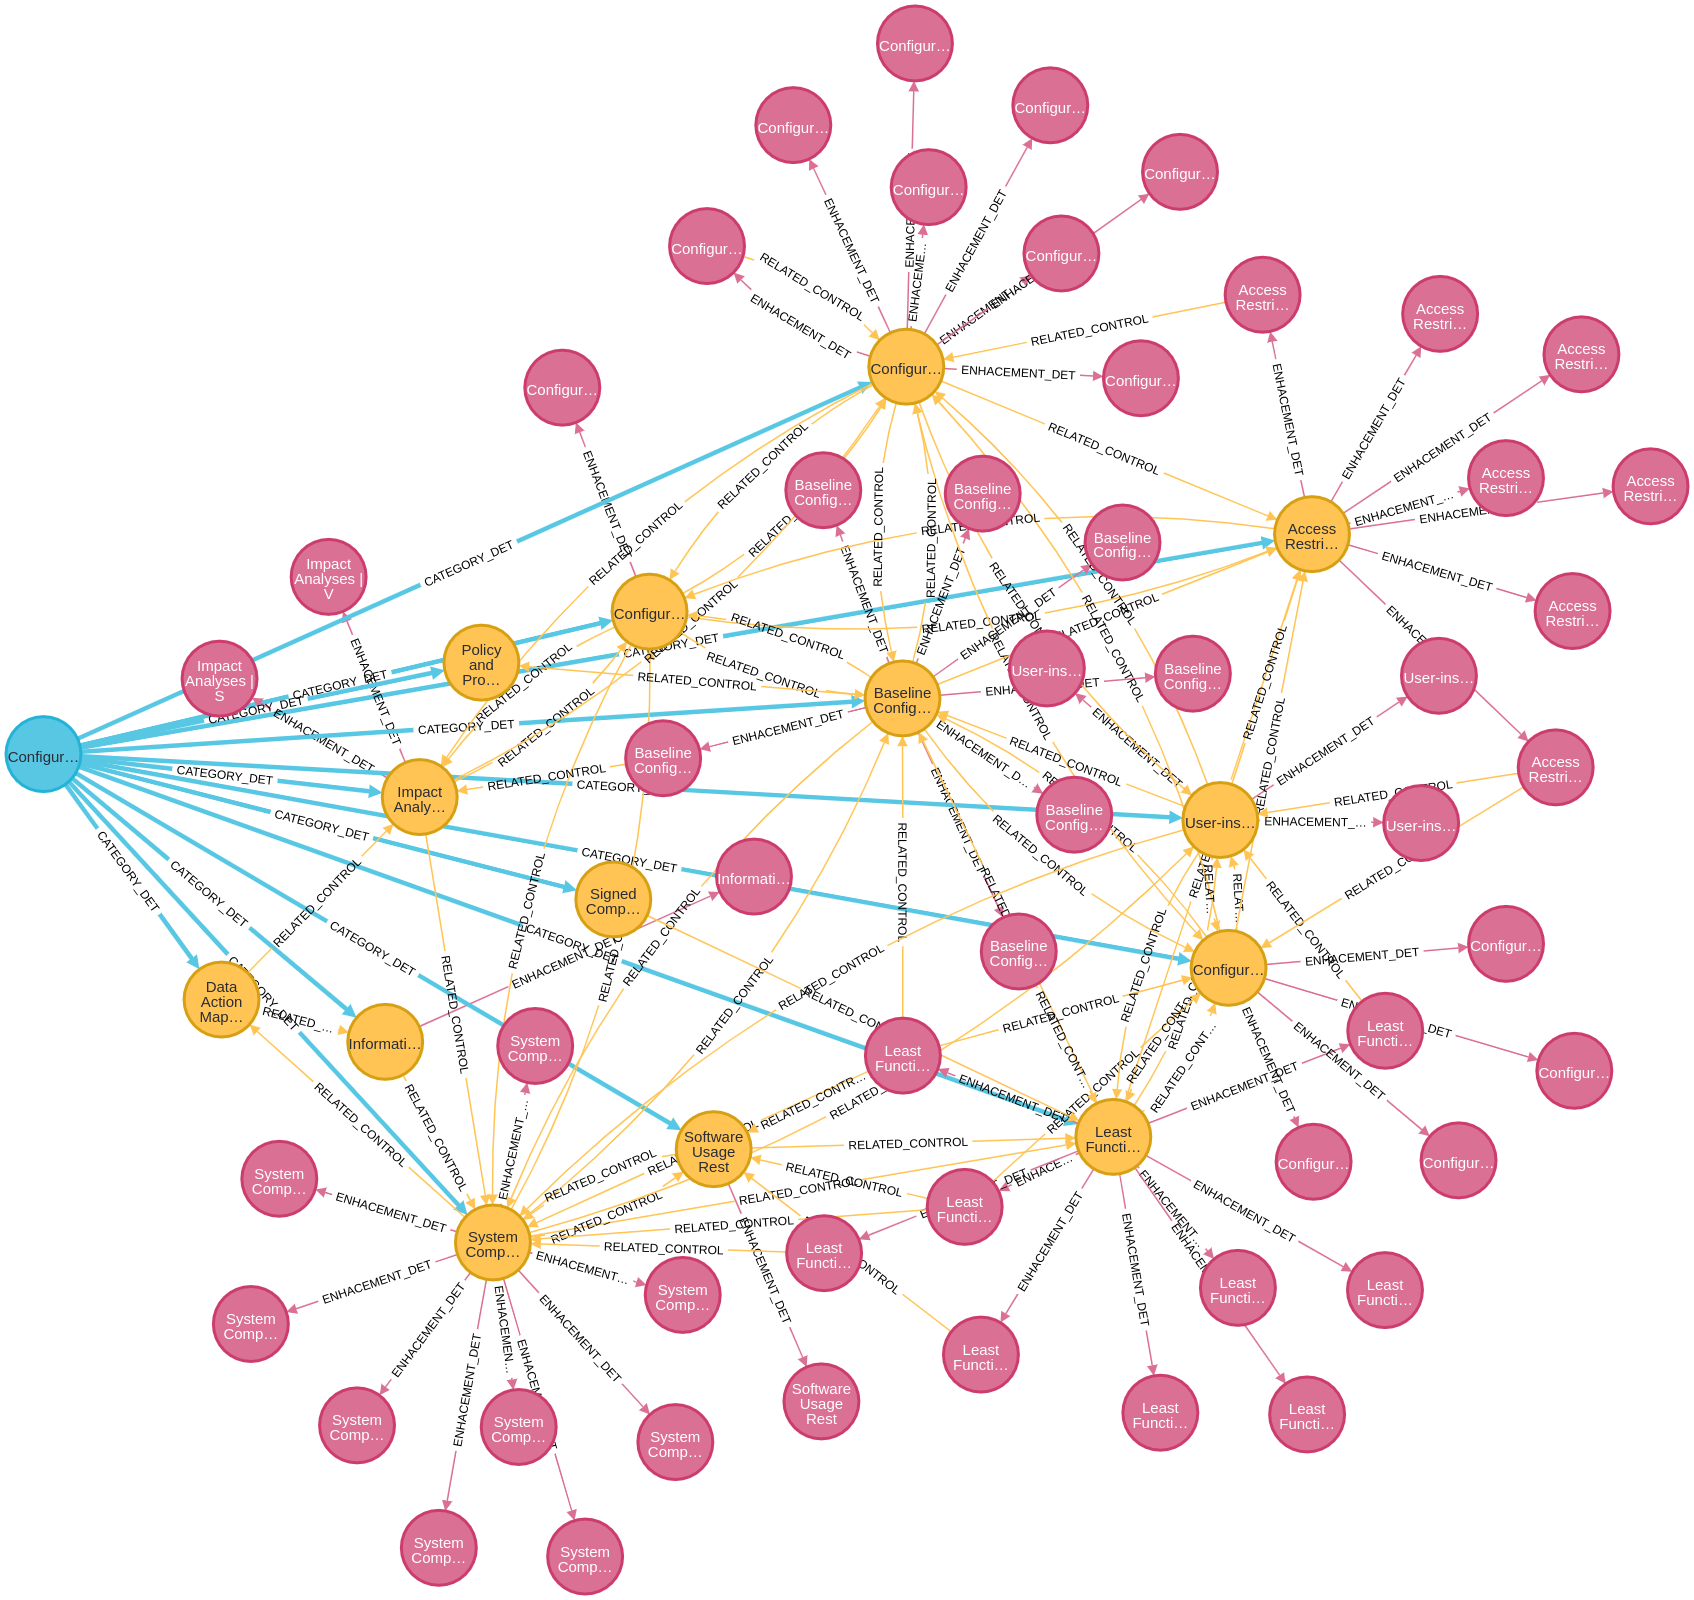
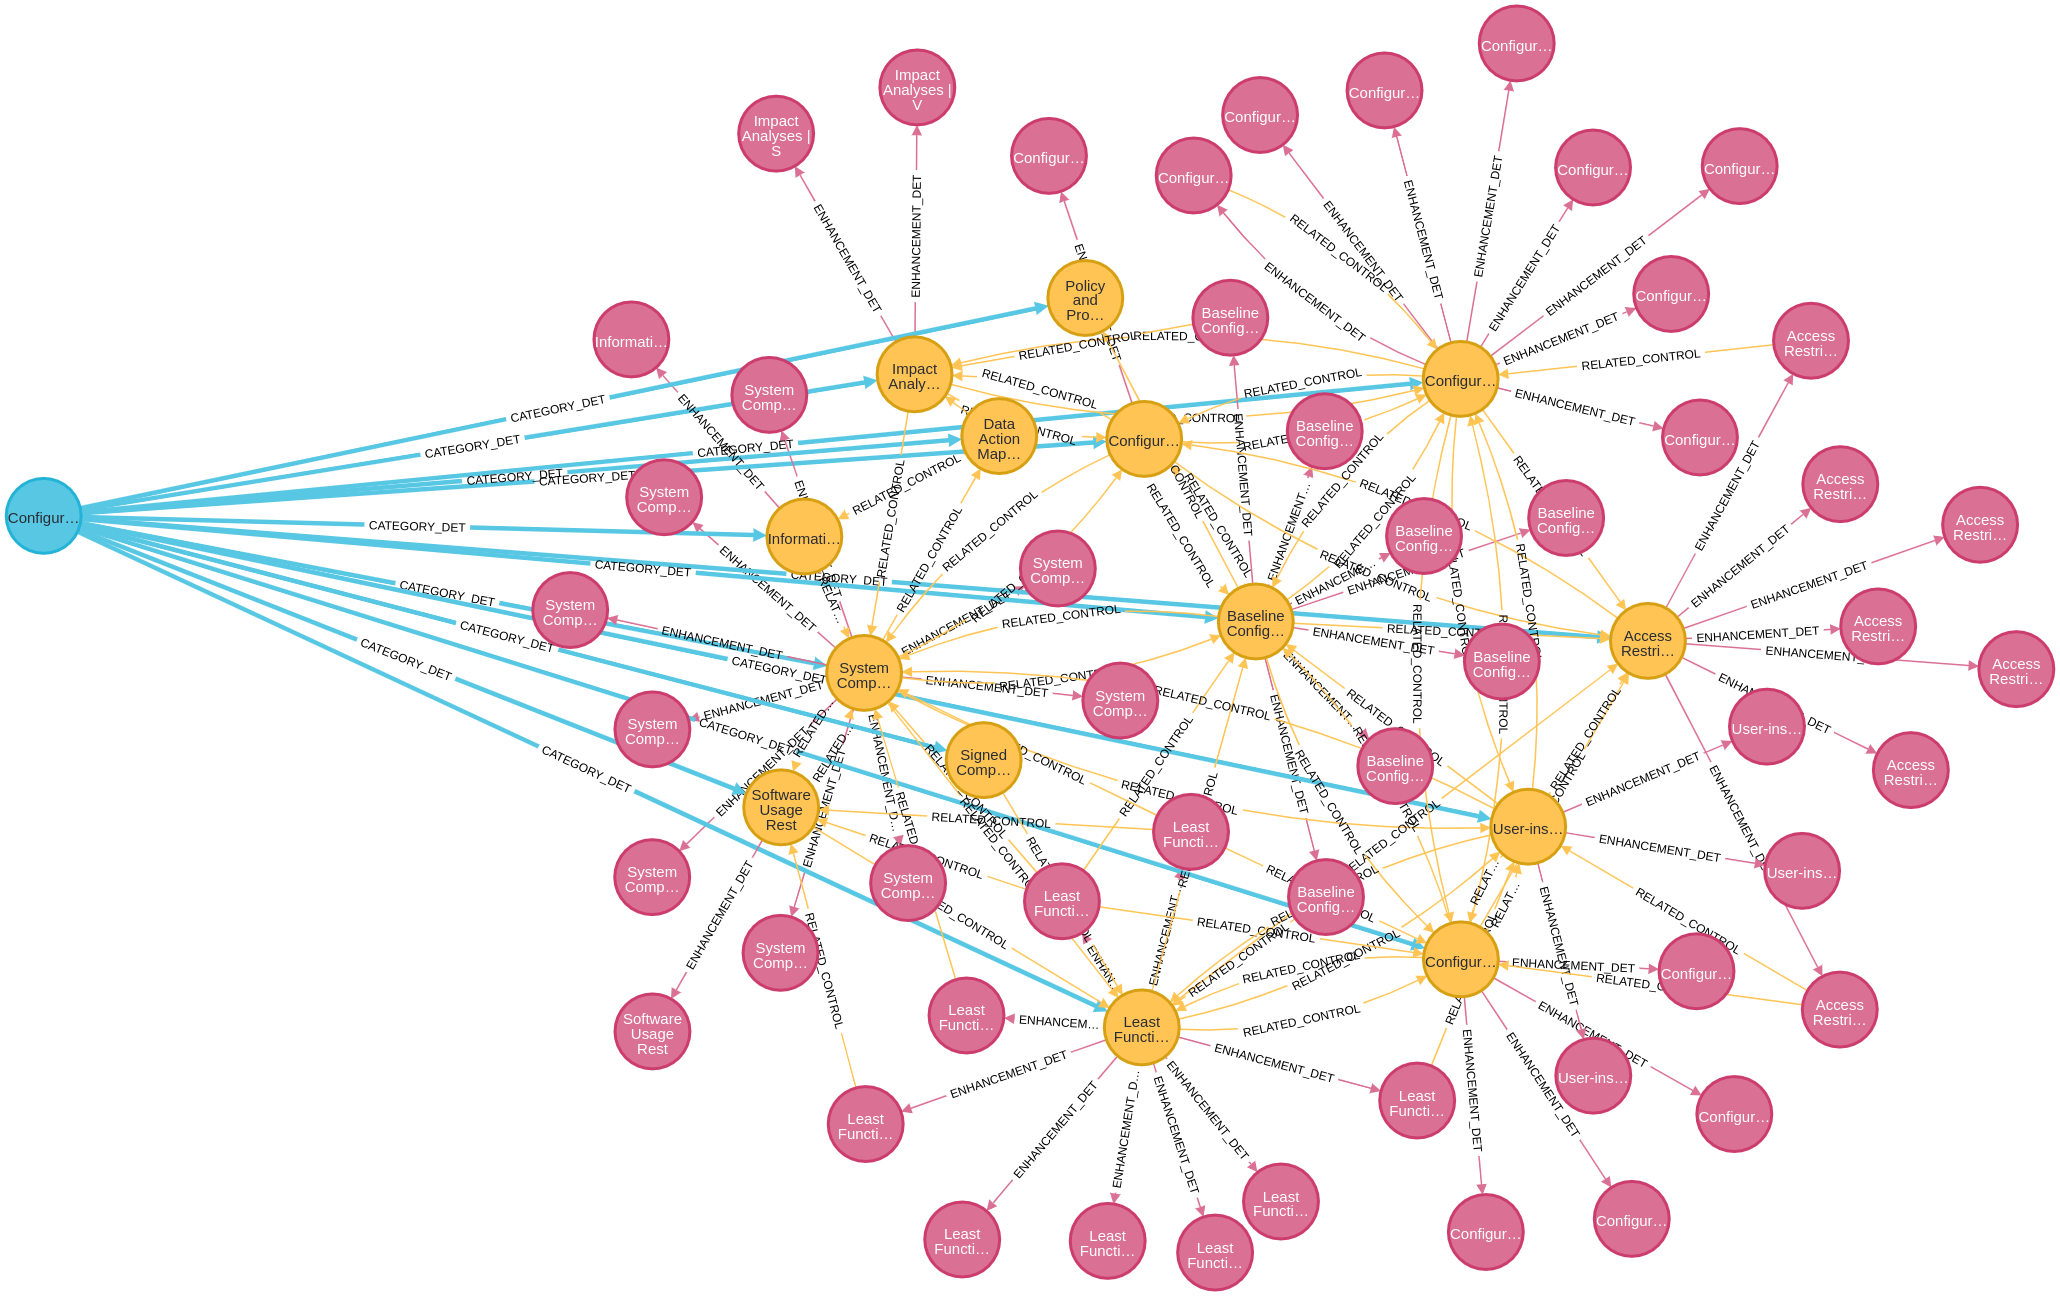
fixing 'enhacement'->'enhancement'

diff --git a/README.md b/README.md
@@ -25,7 +25,7 @@ http://0.0.0.0:7474/browser/   or http://localhost:7474/browser/
 # Review complete schema - Neo4j Command: 
 call db.schema.visualization()  
 
-![schema visualization](image.png)
+![schema visualization](schema_visualization.png)
 
 
 # Reviewing NIST-PUBLICATION-CATEGORIES
